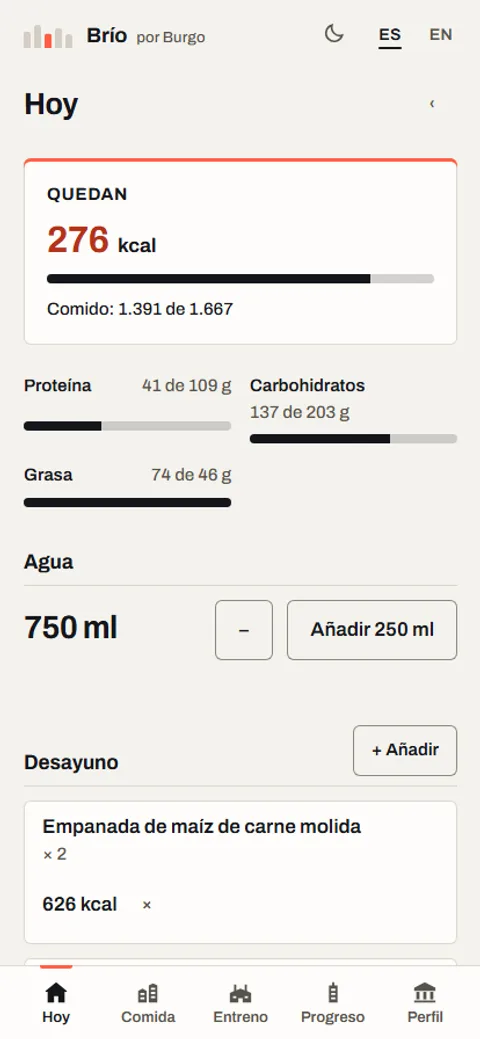
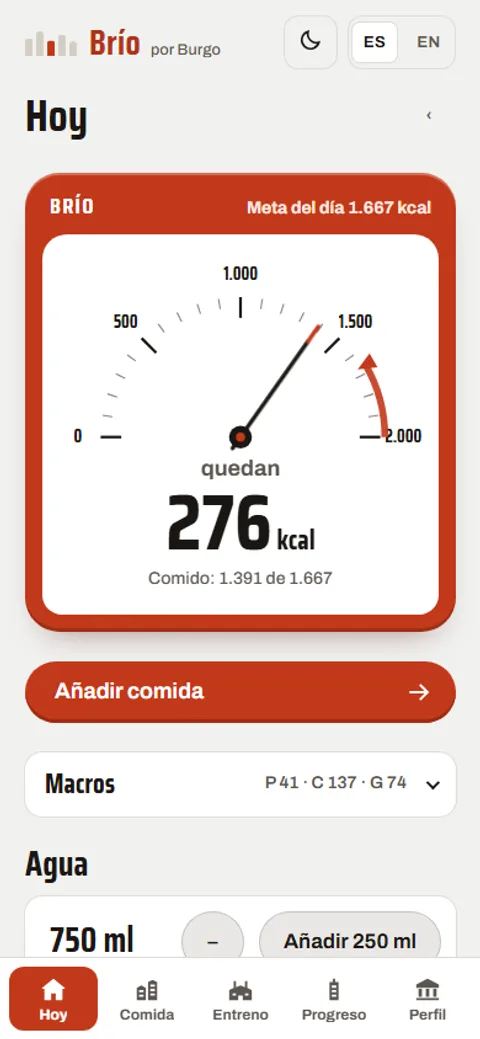
feat: current screenshots of Burgo and Sobre, add burgo.dev project, update Burgo and Sobre copy

diff --git a/src/data/projects.ts b/src/data/projects.ts
@@ -10,15 +10,32 @@ import mvDetail from '../assets/projects/moviesapp-detail.webp';
 import mvFavorites from '../assets/projects/moviesapp-favorites.webp';
 import zuliano from '../assets/projects/el-zuliano.webp';
 import tienda from '../assets/projects/tienda-burgos.webp';
-import bgCancha from '../assets/projects/burgo-cancha.webp';
-import bgFase from '../assets/projects/burgo-fase.webp';
-import bgCuadre from '../assets/projects/burgo-cuadre.webp';
-import bgBrio from '../assets/projects/burgo-brio.webp';
 import bgCuenta from '../assets/projects/burgo-cuenta.webp';
+import bgCuentaEntrar from '../assets/projects/burgo-cuenta-entrar.webp';
+import bgCancha from '../assets/projects/burgo-cancha.webp';
+import bgCuadre from '../assets/projects/burgo-cuadre.webp';
+import bgFase from '../assets/projects/burgo-fase.webp';
+import bgPique from '../assets/projects/burgo-pique.webp';
+import bgBrio from '../assets/projects/burgo-brio.webp';
+import bgAdmin from '../assets/projects/burgo-admin.webp';
+import bgCuentaDesk from '../assets/projects/burgo-cuenta-escritorio.webp';
+import bgAdminDesk from '../assets/projects/burgo-admin-escritorio.webp';
 import sobreEntrar from '../assets/projects/sobre-entrar.webp';
+import sobreInicio from '../assets/projects/sobre-inicio.webp';
+import sobreProductos from '../assets/projects/sobre-productos.webp';
+import sobreComunidad from '../assets/projects/sobre-comunidad.webp';
+import sobreDeskInicio from '../assets/projects/sobre-escritorio-inicio.webp';
+import sobreDeskEntrar from '../assets/projects/sobre-escritorio-entrar.webp';
+import marcaInicio from '../assets/projects/burgo-dev-inicio.webp';
+import marcaEncargo from '../assets/projects/burgo-dev-encargo.webp';
+import marcaVilla from '../assets/projects/burgo-dev-villa.webp';
+import marcaInicioEn from '../assets/projects/burgo-dev-inicio-en.webp';
+import marcaDesk from '../assets/projects/burgo-dev-escritorio.webp';
+import marcaVillaDesk from '../assets/projects/burgo-dev-villa-escritorio.webp';
 
-export type ProjectId = 'burgo' | 'sobre' | 'reportaya' | 'moviesapp' | 'el-zuliano' | 'tienda-burgos';
-export type Shot = { src: ImageMetadata; alt: Record<Lang, string> };
+export type ProjectId = 'burgo' | 'sobre' | 'burgo-dev' | 'reportaya' | 'moviesapp' | 'el-zuliano' | 'tienda-burgos';
+/** `shape` por captura: la galería puede mezclar teléfono y escritorio. Por defecto, el de la tarjeta. */
+export type Shot = { src: ImageMetadata; alt: Record<Lang, string>; shape?: 'phone' | 'wide' };
 export interface ProjectMedia {
   layout: 'phones' | 'wide';
   tile: ImageMetadata[];
@@ -26,29 +43,51 @@ export interface ProjectMedia {
 }
 
 /** Trabajo actual, destacado arriba del muro. */
-export const featuredOrder: ProjectId[] = ['burgo', 'sobre'];
+export const featuredOrder: ProjectId[] = ['burgo', 'sobre', 'burgo-dev'];
 /** Orden en el muro (la cuadrícula coloca cada uno por nombre de clase). */
 export const tileOrder: ProjectId[] = ['reportaya', 'el-zuliano', 'moviesapp', 'tienda-burgos'];
 /** Orden para "siguiente proyecto" en las páginas de caso de estudio. */
-export const projectOrder: ProjectId[] = ['burgo', 'sobre', 'reportaya', 'moviesapp', 'el-zuliano', 'tienda-burgos'];
+export const projectOrder: ProjectId[] = ['burgo', 'sobre', 'burgo-dev', 'reportaya', 'moviesapp', 'el-zuliano', 'tienda-burgos'];
 
 export const projectMedia: Record<ProjectId, ProjectMedia> = {
   burgo: {
     layout: 'phones',
-    tile: [bgCancha, bgFase, bgCuadre],
+    tile: [bgCancha, bgPique, bgBrio],
     gallery: [
-      { src: bgCancha, alt: { es: 'Cancha: equipos de un partido con balance automático', en: 'Cancha: match teams with automatic balancing' } },
-      { src: bgFase, alt: { es: 'Fase: mapa de bloques por parroquia con reportes de luz', en: 'Fase: block map by parish with power reports' } },
-      { src: bgCuadre, alt: { es: 'Cuadre: resumen mensual de gastos en dólares y bolívares', en: 'Cuadre: monthly spending summary in dollars and bolívares' } },
-      { src: bgBrio, alt: { es: 'Brío: calorías y macros del día', en: 'Brío: daily calories and macros' } },
+      { src: bgCuenta, alt: { es: 'Cuenta, tema «Credencial»: La villa, con la credencial del usuario y una tarjeta por app', en: 'Account, “Credencial” theme: the village, with the user’s credential card and one card per app' } },
+      { src: bgCuentaEntrar, alt: { es: 'Cuenta: pantalla de entrada, con la credencial arriba del formulario', en: 'Account: sign-in screen, with the credential card above the form' } },
+      { src: bgCancha, alt: { es: 'Cancha, tema «Dorsal»: un partido con camiseta numerada, cupos y lista de confirmados', en: 'Cancha, “Dorsal” theme: a match with a numbered jersey, spots and the confirmed list' } },
+      { src: bgCuadre, alt: { es: 'Cuadre, tema «Libreta»: saldo del día en dólares y bolívares sobre papel cuadriculado', en: 'Cuadre, “Libreta” theme: today’s balance in dollars and bolívares on grid paper' } },
+      { src: bgFase, alt: { es: 'Fase, tema «Esfera»: reloj de la luz de un sector con los botones «Se fue» y «Volvió»', en: 'Fase, “Esfera” theme: a sector’s power clock with the “It went out” and “It’s back” buttons' } },
+      { src: bgPique, alt: { es: 'Pique, tema «Capicúa»: inicio de la trivia en vivo con un pack de preguntas por elegir', en: 'Pique, “Capicúa” theme: live trivia home with a question pack to choose' } },
+      { src: bgBrio, alt: { es: 'Brío, tema «Romana»: calorías del día en un indicador de aguja', en: 'Brío, “Romana” theme: the day’s calories on a needle gauge' } },
+      { src: bgAdmin, alt: { es: 'Admin, tema «Torre»: lista de usuarios con las secciones del panel arriba', en: 'Admin, “Torre” theme: user list with the panel sections on top' } },
+      { src: bgCuentaDesk, shape: 'wide', alt: { es: 'Cuenta en escritorio: La villa con la credencial a un lado y las tarjetas de cada app', en: 'Account on desktop: the village with the credential card to one side and a card per app' } },
+      { src: bgAdminDesk, shape: 'wide', alt: { es: 'Admin en escritorio: riel oscuro de secciones y tabla de usuarios', en: 'Admin on desktop: dark section rail and users table' } },
     ],
   },
   sobre: {
     layout: 'phones',
-    tile: [sobreEntrar, bgCuenta],
+    tile: [sobreInicio, sobreProductos],
     gallery: [
-      { src: sobreEntrar, alt: { es: 'Sobre: pantalla de entrada con la cuenta Burgo', en: 'Sobre: sign-in screen with the Burgo account' } },
-      { src: bgCuenta, alt: { es: 'Cuenta Burgo: inicio de sesión único para todas las apps', en: 'Burgo Account: single sign-on for every app' } },
+      { src: sobreEntrar, alt: { es: 'Sobre: pantalla de entrada con el sobre azul y el formulario de correo y contraseña', en: 'Sobre: sign-in screen with the blue pack and the email and password form' } },
+      { src: sobreInicio, alt: { es: 'Sobre: inicio con lo que está en stock y los avisos recientes', en: 'Sobre: home with what is in stock and recent alerts' } },
+      { src: sobreProductos, alt: { es: 'Sobre: lista de productos con filtros por tienda y estado', en: 'Sobre: product list with store and status filters' } },
+      { src: sobreComunidad, alt: { es: 'Sobre: pestaña Comunidad con señales de redes marcadas «Sin verificar»', en: 'Sobre: Community tab with social signals labeled “Unverified”' } },
+      { src: sobreDeskInicio, shape: 'wide', alt: { es: 'Sobre en escritorio: menú lateral, productos en stock y avisos', en: 'Sobre on desktop: side menu, products in stock and alerts' } },
+      { src: sobreDeskEntrar, shape: 'wide', alt: { es: 'Sobre en escritorio: entrada con el sobre azul a un lado del formulario', en: 'Sobre on desktop: sign-in with the blue pack beside the form' } },
+    ],
+  },
+  'burgo-dev': {
+    layout: 'wide',
+    tile: [marcaDesk],
+    gallery: [
+      { src: marcaInicio, shape: 'phone', alt: { es: 'burgo.dev en teléfono: titular «Diseñamos y construimos software a medida» y dibujo de la villa', en: 'burgo.dev on phone: headline “We design and build custom software” and the village drawing' } },
+      { src: marcaEncargo, shape: 'phone', alt: { es: 'burgo.dev en teléfono: sección «Software por encargo» con cuatro servicios ilustrados', en: 'burgo.dev on phone: “Software made to order” section with four illustrated services' } },
+      { src: marcaVilla, shape: 'phone', alt: { es: 'burgo.dev en teléfono: sección «La villa» con las apps como edificios dibujados', en: 'burgo.dev on phone: “The village” section with the apps as drawn buildings' } },
+      { src: marcaInicioEn, shape: 'phone', alt: { es: 'burgo.dev en inglés, en teléfono: «We design and build custom software»', en: 'burgo.dev in English, on phone: “We design and build custom software”' } },
+      { src: marcaDesk, shape: 'wide', alt: { es: 'burgo.dev en escritorio: índice lateral, titular y plano dibujado de la villa', en: 'burgo.dev on desktop: side index, headline and drawn plan of the village' } },
+      { src: marcaVillaDesk, shape: 'wide', alt: { es: 'burgo.dev en escritorio: la calle de la villa con cada app y su dirección', en: 'burgo.dev on desktop: the village street with each app and its address' } },
     ],
   },
   reportaya: {

diff --git a/tests/assets.test.ts b/tests/assets.test.ts
@@ -6,10 +6,17 @@ import { describe, expect, it } from 'vitest';
 const phones = [
   ...['login', 'feed', 'guides', 'map'].map((n) => `src/assets/projects/reportaya-${n}.webp`),
   ...['list', 'menu', 'detail', 'favorites'].map((n) => `src/assets/projects/moviesapp-${n}.webp`),
-  ...['cancha', 'fase', 'cuadre', 'brio', 'cuenta'].map((n) => `src/assets/projects/burgo-${n}.webp`),
-  'src/assets/projects/sobre-entrar.webp',
+  ...['cuenta', 'cuenta-entrar', 'cancha', 'cuadre', 'fase', 'pique', 'brio', 'admin'].map((n) => `src/assets/projects/burgo-${n}.webp`),
+  ...['entrar', 'inicio', 'productos', 'comunidad'].map((n) => `src/assets/projects/sobre-${n}.webp`),
+  ...['inicio', 'encargo', 'villa', 'inicio-en'].map((n) => `src/assets/projects/burgo-dev-${n}.webp`),
 ];
-const wides = ['src/assets/projects/el-zuliano.webp', 'src/assets/projects/tienda-burgos.webp'];
+const wides = [
+  'src/assets/projects/el-zuliano.webp',
+  'src/assets/projects/tienda-burgos.webp',
+  ...['cuenta-escritorio', 'admin-escritorio'].map((n) => `src/assets/projects/burgo-${n}.webp`),
+  ...['escritorio-inicio', 'escritorio-entrar'].map((n) => `src/assets/projects/sobre-${n}.webp`),
+  ...['escritorio', 'villa-escritorio'].map((n) => `src/assets/projects/burgo-dev-${n}.webp`),
+];
 
 describe('capturas de teléfono', () => {
   for (const f of phones) {

diff --git a/tests/content.test.ts b/tests/content.test.ts
@@ -42,7 +42,7 @@ describe('site.ts: paridad ES/EN', () => {
 });
 
 describe('casos de estudio MDX', () => {
-  const projects = ['burgo', 'sobre', 'reportaya', 'moviesapp', 'el-zuliano', 'tienda-burgos'];
+  const projects = ['burgo', 'sobre', 'burgo-dev', 'reportaya', 'moviesapp', 'el-zuliano', 'tienda-burgos'];
   for (const lang of ['es', 'en']) {
     for (const p of projects) {
       const file = `src/content/proyectos/${lang}/${p}.mdx`;
@@ -70,7 +70,7 @@ describe('casos de estudio MDX', () => {
         expect(src, `${lang}/${p}`).toMatch(/^academic: true$/m);
         expect(src, `${lang}/${p}`).toMatch(/^liveNote: .+/m);
       }
-      for (const p of ['burgo', 'sobre']) {
+      for (const p of ['burgo', 'sobre', 'burgo-dev']) {
         expect(readFileSync(`src/content/proyectos/${lang}/${p}.mdx`, 'utf8'), `${lang}/${p}`).not.toMatch(/^academic: true$/m);
       }
     }

diff --git a/tests/e2e/links.spec.ts b/tests/e2e/links.spec.ts
@@ -1,6 +1,6 @@
 import { expect, test } from '@playwright/test';
 
-const pages = ['/es/', '/en/', '/es/proyectos/burgo/', '/en/proyectos/sobre/', '/es/proyectos/reportaya/', '/en/proyectos/moviesapp/', '/es/proyectos/el-zuliano/', '/en/proyectos/tienda-burgos/'];
+const pages = ['/es/', '/en/', '/es/proyectos/burgo/', '/en/proyectos/sobre/', '/es/proyectos/burgo-dev/', '/en/proyectos/burgo-dev/', '/es/proyectos/reportaya/', '/en/proyectos/moviesapp/', '/es/proyectos/el-zuliano/', '/en/proyectos/tienda-burgos/'];
 
 for (const p of pages) {
   test(`enlaces internos y descargas responden 200: ${p}`, async ({ page }) => {

diff --git a/src/content.config.ts b/src/content.config.ts
@@ -5,7 +5,7 @@ import { z } from 'astro/zod';
 const proyectos = defineCollection({
   loader: glob({ pattern: '**/*.mdx', base: './src/content/proyectos' }),
   schema: z.object({
-    project: z.enum(['burgo', 'sobre', 'reportaya', 'moviesapp', 'el-zuliano', 'tienda-burgos']),
+    project: z.enum(['burgo', 'sobre', 'burgo-dev', 'reportaya', 'moviesapp', 'el-zuliano', 'tienda-burgos']),
     title: z.string(),
     kind: z.string(),
     status: z.string(),

diff --git a/tests/contrast.test.ts b/tests/contrast.test.ts
@@ -26,6 +26,7 @@ describe('contraste de tokens (WCAG AA = 4.5, texto principal ≥ 7)', () => {
     ['color-ink', 'color-tile-tienda', 7],
     ['color-ink', 'color-tile-burgo', 7],
     ['color-paper', 'color-tile-sobre', 7],
+    ['color-paper', 'color-tile-marca', 7],
     ['color-muted', 'color-ink-2', 4.5],
     ['color-paper', 'color-ink-2', 7],
     ['color-accent', 'color-ink-2', 4.5],

diff --git a/src/styles/tokens.css b/src/styles/tokens.css
@@ -12,6 +12,7 @@
   --color-tile-tienda: oklch(0.85 0.02 85);
   --color-tile-burgo: oklch(0.93 0.012 95);
   --color-tile-sobre: oklch(0.42 0.2 264);
+  --color-tile-marca: oklch(0.30 0.035 160);
   --color-line: oklch(0.95 0.012 85 / 0.18);
 
   /* Tipografía */
